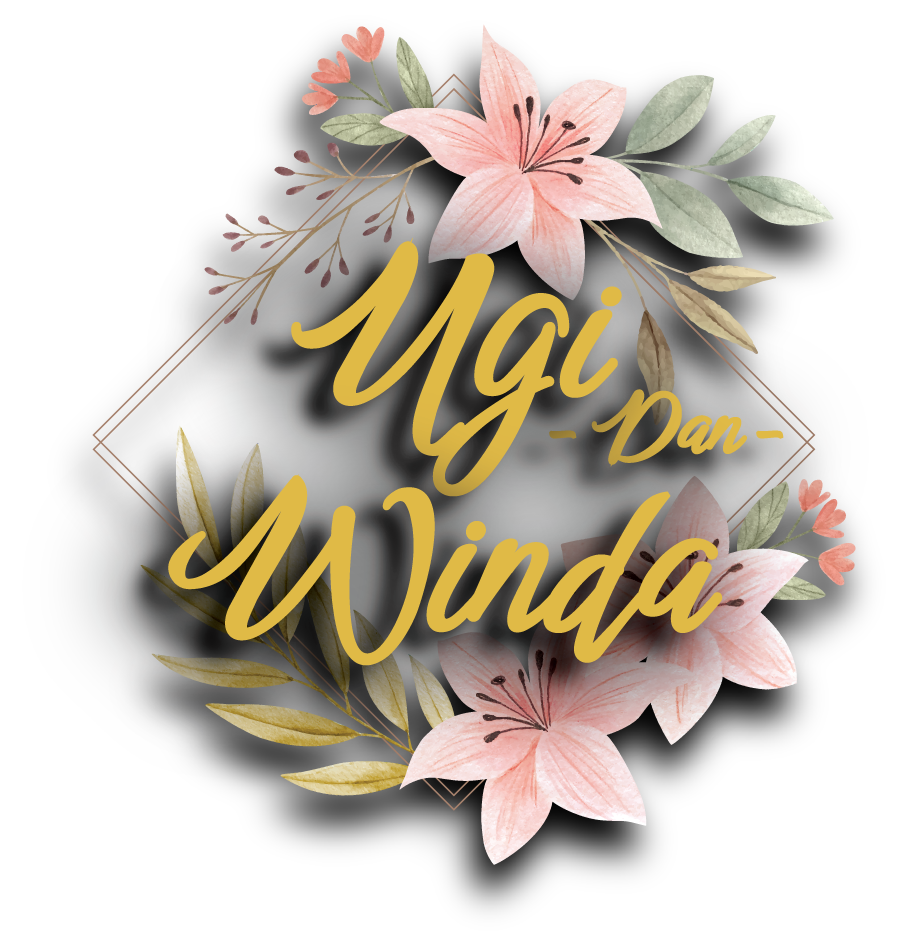
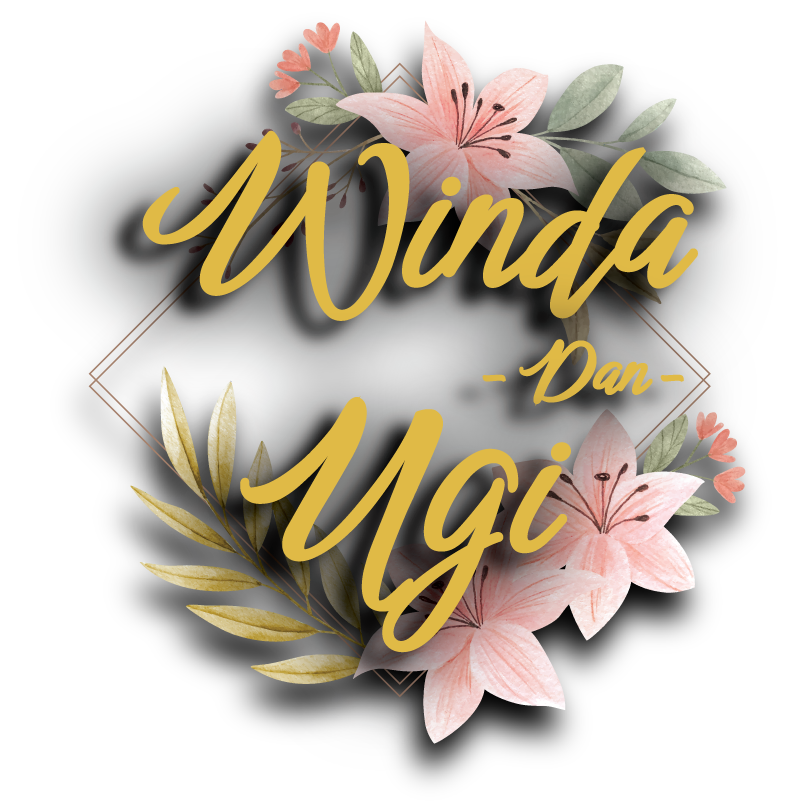
95%

diff --git a/index.html b/index.html
@@ -14,8 +14,8 @@
   <!-- fb & Whatsapp -->
   <!-- Site Name, Title, and Description to be displayed -->
   <meta property="og:site_name" content="Wedding Invitation">
-  <meta property="og:title" content="Sugimin & Winda Wedding Invitation">
-  <meta property="og:description" content="Our Wedding Ugi & Winda - Sunday, 21 November 2021">
+  <meta property="og:title" content="Winda & Sugimin Wedding">
+  <meta property="og:description" content="Our Wedding Winda & Sugimin - Sunday, 21 November 2021">
 
   <!-- Image to display -->
   <!-- Replace   «example.com/image01.jpg» with your own -->
@@ -31,7 +31,7 @@
   <meta property="og:image:height" content="300">
 
   <!-- Website to visit when clicked in fb or WhatsApp-->
-  <meta property="og:url" content="http://www.example.com">
+  <meta property="og:url" content="https://winzart.github.io/Winda_Ugi/">
 
   <!-- Bootstrap CSS -->
   <link rel="stylesheet" href="css/bootstrap.min.css" />
@@ -73,7 +73,8 @@
     <div class="container">
       <img src="img/divider-atas.png" class="my-2" alt="divide" width="200px" />
       <h2 class="animate__animated animate__zoomInDown">Wedding Invitation</h2>
-      <img src="img/cover.png" class="img-fluid animate__animated animate__jackInTheBox" alt="frame" width="800px" />
+      <img src="img/cover.png" class="img-fluid animate__animated animate__jackInTheBox py-3" alt="frame"
+        width="800px" />
       <h6>Dear</h6>
       <p id="kepada" class="p-0 mb-2 animate__animated animate__bounceInDown animate__delay-1s"><i
           class="bi bi-heart-fill"></i></p>
@@ -90,7 +91,8 @@
       <h2 class="animate__animated animate__flash animate__delay-2s">The Wedding Of</h2>
       <img src="img/Test2.png" class="img-fluid myImg animate__animated animate__bounceInDown animate__delay-1s"
         alt="frame" width="800px" />
-      <h6>Minggu, <br> 21 November 2021</h6>
+      <h6 class="animate__animated animate__fadeInUp animate__delay-1s animate__slow">Minggu, <br> 21 November 2021
+      </h6>
       <svg xmlns="http://www.w3.org/2000/svg" viewBox="0 0 1440 320">
         <path fill="rgba(0, 0, 0, 0.25)" fill-opacity="1"
           d="M0,128L288,256L576,288L864,160L1152,224L1440,64L1440,320L1152,320L864,320L576,320L288,320L0,320Z"></path>
@@ -177,7 +179,7 @@
               <path d="M8 3.5a.5.5 0 0 0-1 0V9a.5.5 0 0 0 .252.434l3.5 2a.5.5 0 0 0 .496-.868L8 8.71V3.5z" />
               <path d="M8 16A8 8 0 1 0 8 0a8 8 0 0 0 0 16zm7-8A7 7 0 1 1 1 8a7 7 0 0 1 14 0z" />
               <div class="card-body p-0">
-                <p class="card-text">08.00 WIB <br>Hingga Selesai</p>
+                <p class="card-text">11.00 WIB <br>Hingga Selesai</p>
               </div>
           </div>
         </div>
@@ -200,7 +202,7 @@
               <path d="M8 3.5a.5.5 0 0 0-1 0V9a.5.5 0 0 0 .252.434l3.5 2a.5.5 0 0 0 .496-.868L8 8.71V3.5z" />
               <path d="M8 16A8 8 0 1 0 8 0a8 8 0 0 0 0 16zm7-8A7 7 0 1 1 1 8a7 7 0 0 1 14 0z" />
               <div class="card-body p-0">
-                <p class="card-text">09.00 WIB <br>Hingga Selesai</p>
+                <p class="card-text">12.00 WIB <br>Hingga Selesai</p>
               </div>
           </div>
         </div>
@@ -279,7 +281,7 @@
             Kel. Besar Opung Taripar Lumban Gaol<br>
             Bapak Husin (Uwa)<br>
             Fredy W. S (Abang)<br>
-            Putri & Dina (Adik)<br>
+            Putri & Diva (Adik)<br>
             Bpk. Ahmad Fauzi (RW 05) <br>
             Bpk. Sofian (RT 03) <br>
           </p>
@@ -289,7 +291,7 @@
         <h3 class="pt-3">Thank You</h3>
       </section>
       <div class="footer">
-        <p style="font-size: 10px;">Created By Winz.Art for My Best Friend</p>
+        <p style="font-size: 8px;">Created By Winz.Art for My Best Friend</p>
       </div>
     </div>
   </div>

diff --git a/js/script.js b/js/script.js
@@ -58,20 +58,20 @@ function myFunction() {
 };
 
 // Music
-var musik = new Audio();
-musik.src = "hidup.mp3";
-musik.loop = true;
+// var musik = new Audio();
+// musik.src = "hidup.mp3";
+// musik.loop = true;
 
-function mulaiAudio() {
-  var play = document.getElementById("myButton");
+// function mulaiAudio() {
+//   var play = document.getElementById("myButton");
 
-  play.addEventListener('click', fplay);
+//   play.addEventListener('click', fplay);
 
-  function fplay() {
-    if (musik.paused) {
-      musik.play();
-    }
-  }
-};
-window.addEventListener('load', mulaiAudio);
+//   function fplay() {
+//     if (musik.paused) {
+//       musik.play();
+//     }
+//   }
+// };
+// window.addEventListener('load', mulaiAudio);
 

diff --git a/css/style.css b/css/style.css
@@ -18,7 +18,7 @@ body {
   /* 4a4a4a;fff7f0;524545; */
   background-color: #494242;
   background-image: url('../img/ring.jpg');
-  background-position-x: center;
+  background-position: center;
   background-size: cover;
   text-align: center;
   background-attachment: fixed;
@@ -78,7 +78,6 @@ p {
   min-height: 100vmax;
   transition: all ease 3s;
   background-image: url('../img/shattered-dark.png');
-  background-color: #00000000;
   padding: 1em;
 }
 #cover p {
